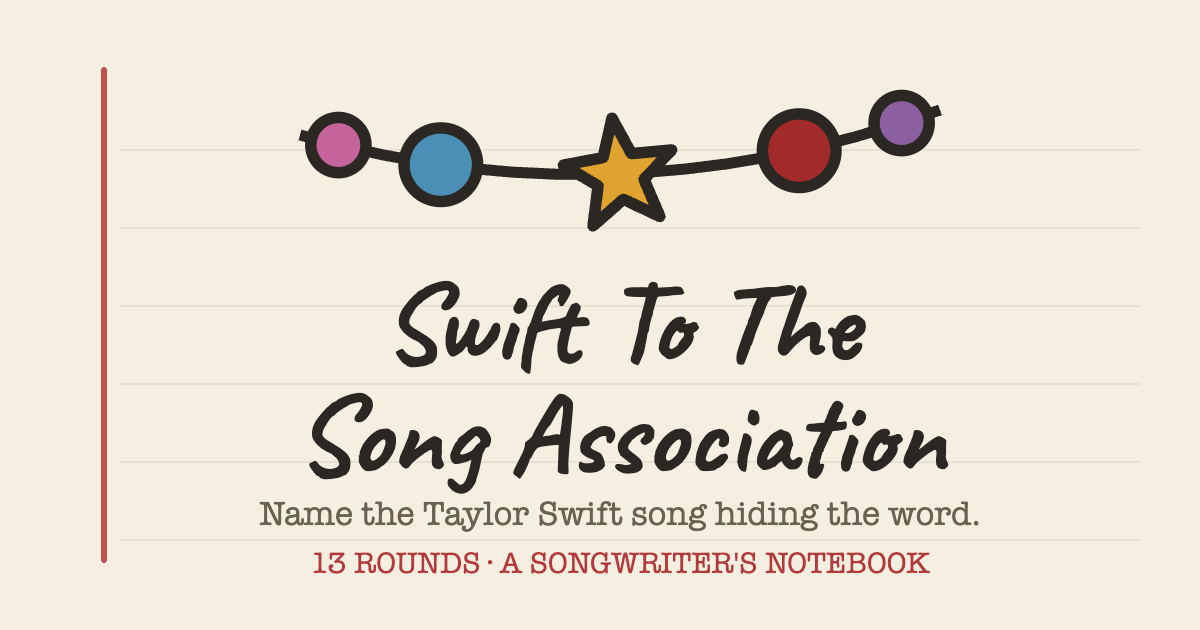
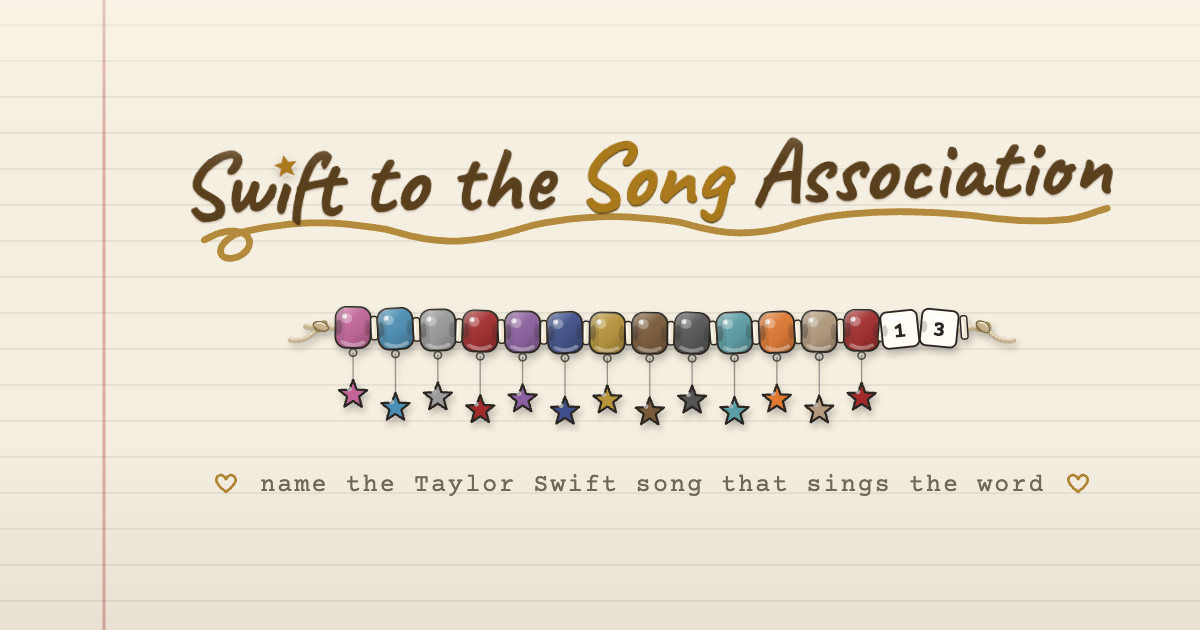
Redraw the link-preview card from the game's own wordmark and bracelet
The social card that a shared link unfurls into had not been touched in months and had
drifted a long way from the game it was advertising. It still strung the old bracelet (round
beads on a black string), set the title as "Swift To The Song Association" in plain ink with
none of the masthead's treatment, and carried a two-line blurb that read badly at chat size.

The new card is one ruled notebook page. The wordmark is the real masthead, measured off its
own rules rather than retyped: lowercase "to the", "Song" in the brand gold, the gold star
dotting the i and the swash running under it, at the same tilt. Under it hangs a finished
thirteen-bead strand drawn by the game's bracelet builder, glossy beads, star charms and the
13 tie, so the picture is the bracelet a player actually ends a run with. The tagline row
borrows the front page's typewriter line between two inked hearts: "name the Taylor Swift
song that sings the word".

Spacing was set by measurement, not by eye. The wordmark and the tagline both sit on a ruled
line, the three pieces share one centre on the paper to the right of the red margin rather
than on the card (which made the margin look like it was eating the left side), and the space
above and below the ink is balanced to within a couple of pixels.

The text that travels with the image changes with it. og:title, twitter:title and the site
name now use the game's own capitalisation, the description becomes "Every page gives you a
[…]

diff --git a/index.html b/index.html
@@ -49,17 +49,17 @@ if (location.pathname.endsWith('/index.html')) {
 
 <!-- Open Graph / social preview -->
 <meta property="og:type" content="website" />
-<meta property="og:site_name" content="Swift To The Song Association" />
-<meta property="og:title" content="Swift To The Song Association" />
-<meta property="og:description" content="Name the Taylor Swift song hiding the word. 13 rounds, a songwriter's notebook." />
+<meta property="og:site_name" content="Swift to the Song Association" />
+<meta property="og:title" content="Swift to the Song Association" />
+<meta property="og:description" content="Every page gives you a word. Name the Taylor Swift song it's hiding in." />
 <meta property="og:url" content="https://swiftassociation.com/" />
 <meta property="og:image" content="https://swiftassociation.com/icons/og-image.png" />
 <meta property="og:image:width" content="1200" />
 <meta property="og:image:height" content="630" />
-<meta property="og:image:alt" content="Swift To The Song Association: a gold star on ruled notebook paper." />
+<meta property="og:image:alt" content="Swift to the Song Association, handwritten on ruled notebook paper above a friendship bracelet of thirteen beads." />
 <meta name="twitter:card" content="summary_large_image" />
-<meta name="twitter:title" content="Swift To The Song Association" />
-<meta name="twitter:description" content="Name the Taylor Swift song hiding the word. 13 rounds, a songwriter's notebook." />
+<meta name="twitter:title" content="Swift to the Song Association" />
+<meta name="twitter:description" content="Every page gives you a word. Name the Taylor Swift song it's hiding in." />
 <meta name="twitter:image" content="https://swiftassociation.com/icons/og-image.png" />
 
 <!-- PWA -->

diff --git a/sw.js b/sw.js
@@ -42,7 +42,7 @@
  * Paths are relative so the worker works at the site root (swiftassociation.com)
  * and under any project subpath, without hardcoding the origin.
  */
-const CACHE = "stta-v416";
+const CACHE = "stta-v417";
 const GUEST_CACHE = "stta-guests";
 const guestRoot = new URL("data/guests/", self.registration.scope);
 const isGuest = (url) => url.origin === guestRoot.origin &&
